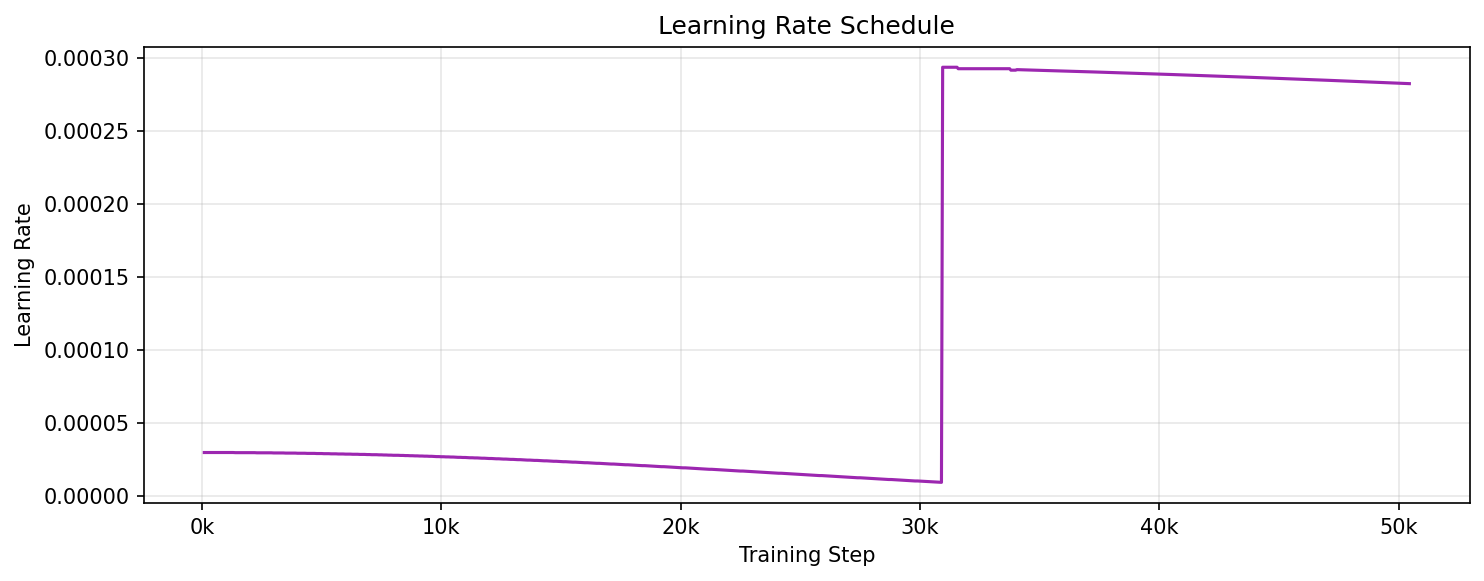
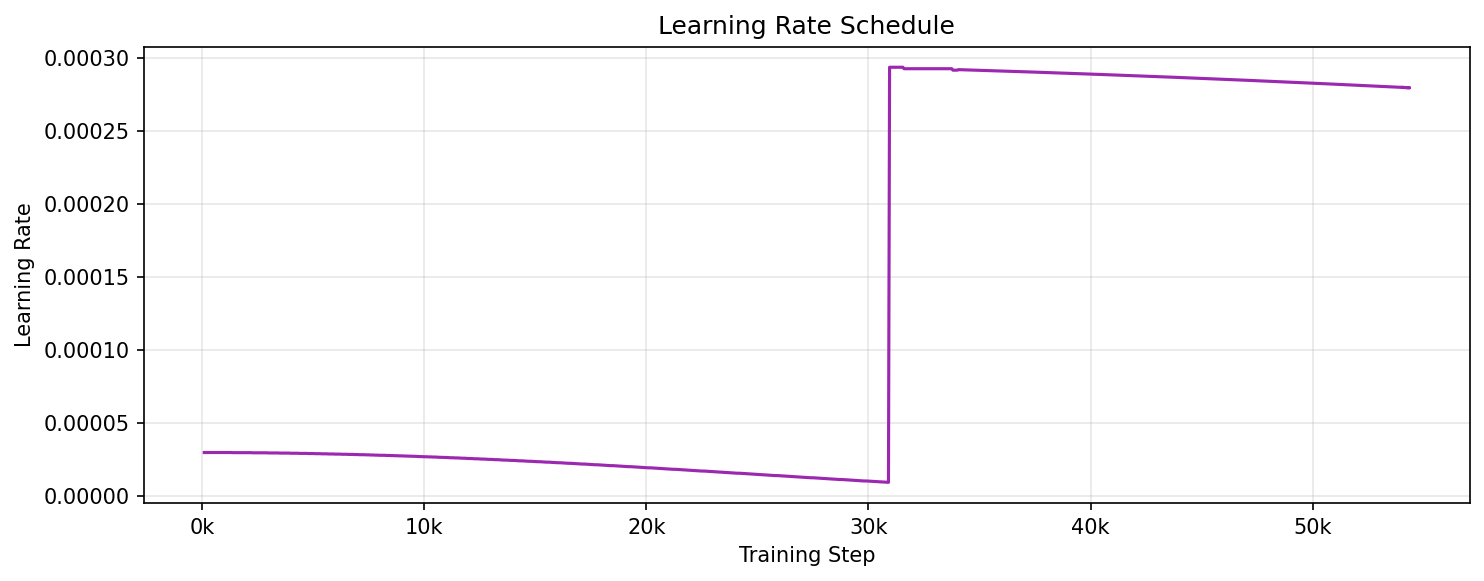
Fix token count bug across batch size changes, fix corrupted checkpoint
tokens_total is now saved in checkpoints so it survives restarts
with different batch sizes. Fixed 107 inflated rows in metrics.csv
and regenerated plots. Replaced corrupted latest.pt from force kill.

diff --git a/train.py b/train.py
@@ -225,7 +225,7 @@ def find_latest_checkpoint(checkpoint_dir):
     return None
 
 
-def save_checkpoint(model, optimizer, scaler, config, step, loss, checkpoint_dir, is_milestone=False):
+def save_checkpoint(model, optimizer, scaler, config, step, loss, checkpoint_dir, is_milestone=False, tokens_total=0):
     """Save checkpoint and clean up old ones."""
     os.makedirs(checkpoint_dir, exist_ok=True)
 
@@ -236,6 +236,7 @@ def save_checkpoint(model, optimizer, scaler, config, step, loss, checkpoint_dir
         "config": config.__dict__,
         "step": step,
         "avg_loss": loss,
+        "tokens_total": tokens_total,
         "timestamp": datetime.datetime.now().isoformat(),
     }
 
@@ -290,11 +291,12 @@ def load_checkpoint(path, device="cuda"):
 
     step = ckpt.get("step", 0)
     loss = ckpt.get("avg_loss", float("inf"))
+    tokens_total = ckpt.get("tokens_total", None)
 
     total_p, _ = model.count_parameters()
     log(f"Resumed: {total_p:,} params | step {step} | loss {loss:.4f}")
 
-    return model, optimizer, scaler, config, step
+    return model, optimizer, scaler, config, step, tokens_total
 
 
 # ---------------------------------------------------------------------------
@@ -358,8 +360,9 @@ def train(resume_from=None, fresh=False):
             log(f"Found existing checkpoint: {resume_from}")
 
     # Initialize or resume
+    saved_tokens = None
     if resume_from:
-        model, optimizer, scaler, config, start_step = load_checkpoint(resume_from, device)
+        model, optimizer, scaler, config, start_step, saved_tokens = load_checkpoint(resume_from, device)
         config.vocab_size = tokenizer.vocab_size  # ensure consistency
     else:
         log("Starting fresh training...")
@@ -390,7 +393,15 @@ def train(resume_from=None, fresh=False):
 
     # Training state
     losses = []
-    tokens_total = start_step * BATCH_SIZE * SEQ_LEN
+    if saved_tokens is not None:
+        tokens_total = saved_tokens
+    else:
+        # Fallback for old checkpoints without tokens_total:
+        # steps before 49000 used batch_size=16, after used 48
+        ORIGINAL_BATCH_SIZE = 16
+        tokens_total = min(start_step, 49000) * ORIGINAL_BATCH_SIZE * SEQ_LEN
+        if start_step > 49000:
+            tokens_total += (start_step - 49000) * BATCH_SIZE * SEQ_LEN
     start_time = time.time()
 
     # Graceful shutdown
@@ -474,6 +485,7 @@ def train(resume_from=None, fresh=False):
             save_checkpoint(
                 model, optimizer, scaler, config, step + 1, avg_loss,
                 CHECKPOINT_DIR, is_milestone=((step + 1) % 10000 == 0),
+                tokens_total=tokens_total,
             )
 
         if shutdown_requested:
@@ -481,7 +493,7 @@ def train(resume_from=None, fresh=False):
 
     # Final save
     avg_loss = sum(losses[-100:]) / len(losses[-100:]) if losses else float("inf")
-    save_checkpoint(model, optimizer, scaler, config, step + 1, avg_loss, CHECKPOINT_DIR)
+    save_checkpoint(model, optimizer, scaler, config, step + 1, avg_loss, CHECKPOINT_DIR, tokens_total=tokens_total)
 
     elapsed = time.time() - start_time
     log("=" * 70)
